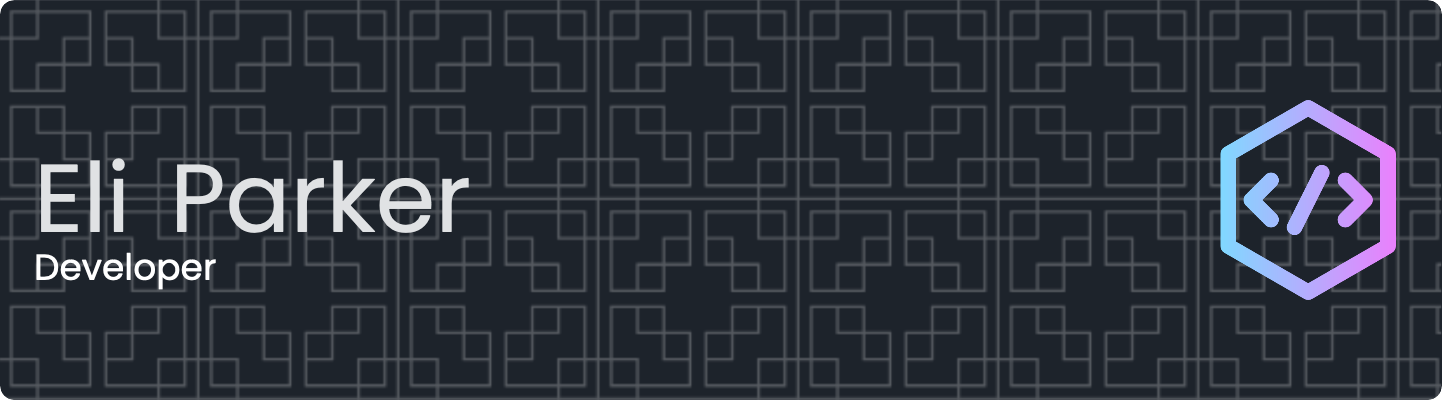
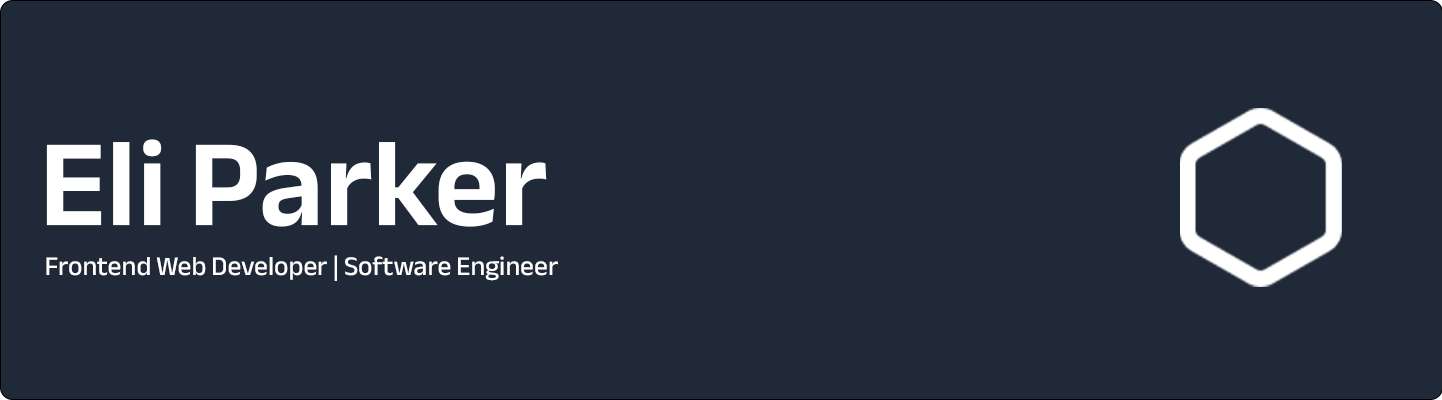
Update Header image and readme with latest info

Changed region(s): [[0.0, 0.0, 1.0, 1.0]]

diff --git a/README.md b/README.md
@@ -2,15 +2,17 @@
 
 ### Hi, I'm Eli! 👋
 
-Always looking to collaborate so send me a ping if you have any cool ideas
+Trailblazing Onewheel enthusiast, pour-over coffee aficionado, and relentless school hustler.
 
-- 🔭 I’m currently working on - A Portfolio website using react and three-js (commonly called React-Three-Fiber)!
-- 🌱 I’m currently learning - Three.JS, React, R3F, c++
-- 👯 I’m looking to collaborate on - Anything cool; VESC Onewheel programming stuff (one day)
-- 🤔 I’m looking for help with - Blazor and React!
-- 💬 Ask me about - Onewheels, My latest project, which coffee shop in SLC is best
-- 📫 How to reach me: - My email at <me@eliparker.dev>, or my [LinkedIn](https://www.linkedin.com/in/eli-parker-a96338302/) profile.
-- 😄 Pronouns: He/Him/His
+- 🔭 **Building:** A slick portfolio with React & Three.js, plus a ride-tracking app for Onewheel!
+- 🌱 **Learning:** Diving deeper into React, C, and Node.js—always hungry for new tech.
+- 👯 **Collab:** Open to fun, creative projects! Let’s make something awesome together.
+- 🤔 **Help Wanted:** Physics homework warriors or backend savants, hit me up!
+- 💬 **Ask Me About:** How I built my Onewheel, my latest coding rabbit hole, or the coffee that’s fueling me today.
+- 🤝 **Connect:** Contact me at <me@eliparker.dev> or find me on [LinkedIn](https://www.linkedin.com/in/eli-parker-a96338302/).
+- 🫂 **Pronouns:** He/Him
+
+Relax and enjoy your coffee ☕
 
 <p align="center">
   <img src="https://github.com/user-attachments/assets/208fc571-7ef0-4214-8995-d2c9de519ea4" width="400">
@@ -28,9 +30,6 @@ Always looking to collaborate so send me a ping if you have any cool ideas
   <img align="center" width="49%" height="auto" src="./metrics.classic.svg" />
   <img align="center" width="49%" height="auto" src="./metrics.plugin.habits.charts.svg" />
 <br/>
-<!--
-  <img align="center" width="49%" src="./iso_calender.svg" />
-    <img align="center" width="49%" src="./issue_pr_lang.svg" />
 
 
 <br/>
@@ -39,5 +38,4 @@ Always looking to collaborate so send me a ping if you have any cool ideas
 
 <br />
 
-Thanks to nor0x for the inspiration to do this to my repo!
--->
+ <!-- Thanks to nor0x for the inspiration to do this to my repo! -->
